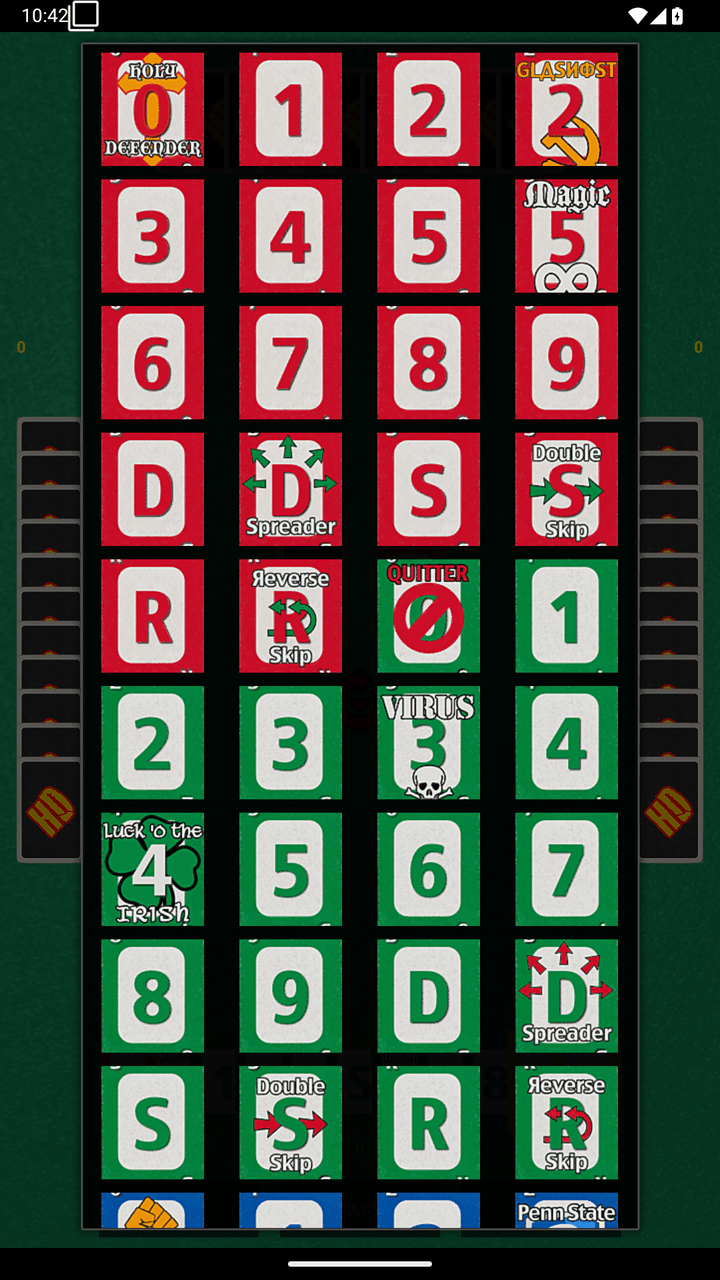
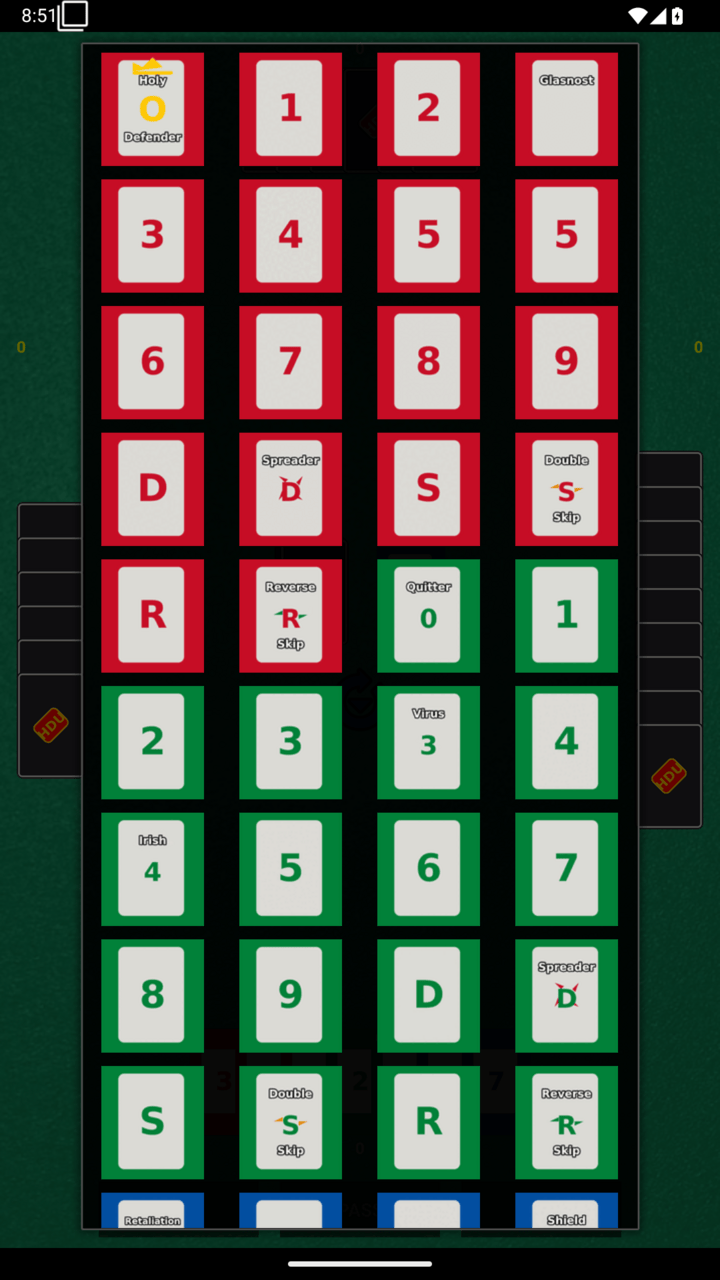
Re-shoot the four README screenshots from build #128
Unlike the last regeneration, this one was not for currency: e464a7c through
d405f31 redrew every card face and card back, and the old set was showing the
defects that fixed. Measured against the previous images at 720x1280:

  01-main          RMSE  2.3%   the clock, and nothing else
  02-table        RMSE 17.5%   new art
  03-card-catalog RMSE 17.0%   new art
  04-card-help     RMSE  7.4%   the dialog covers most of it

What the old shots recorded, and the new ones do not:

 - the back of every card clipped the Hot Death logo down to an orange sliver
   along the top edge. A back now carries the whole logo
 - a face-up card drew its label across the big rank -- "GLASNOST" through the
   2, "Reverse" through the R -- with the digit clipped by the card edge. A
   face is now a rank with a small index in each corner, labelled or not

01-main is within noise of the old one, which is the point: the menu logo comes
from a different drawable and the buttons did not move. Continue is still absent
because the emulator is wiped. The hand and the table differ because the deal is
random.

Scaled 1080x1920 -> 720x1280 and quantised to 256 colours as before, with
ImageMagick and pngquant rather than sharp: same two operations, and pngquant is
what the previous set already looked like -- 254 to 256 colours per file, 8-bit
palette. 02-table is 73KB larger than the old one at the same dimensions, which
is the card art: more colours in the faces, fewer in the felt.
[…]

diff --git a/README.md b/README.md
@@ -81,13 +81,20 @@ even though the stage asks for a 1080×2160 display: the device clamps the overr
 to 1920, which is why the committed images are 9:16 and why the stage's comment
 should not be taken as describing what comes out.
 
-The current set is build #115 of version 1.4.11. Nothing between 1.4.7 and 1.4.11
-changed what any of these four screens looks like — the releases in that range
-changed messages, card label spacing and a crash path, none of which appears in a
-still — so they were regenerated for currency rather than because any of them was
-out of date. The main menu in particular is identical apart from the clock, and
-Continue is *absent* from it: the emulator is wiped, so there is no saved game and
-the button is hidden.
+The current set is build #128 of version 1.4.16, and this time it was not just for
+currency. The card art was genuinely out of date: the SVG card faces and back have
+been regenerated and rasterised over `res/drawable-*` (e464a7c through d405f31,
+still unreleased), and the previous set is a good record of the defects that
+fixed. On the old shot the back of every card clips the *Hot Death* logo down to
+an orange sliver along the top, and a face-up card draws its label across the big
+rank — "GLASNOST" through the 2, "Reverse" through the R — with the digits
+clipped by the card edge. Both are gone: a back carries the whole logo, and a
+face-up card is a rank with a small index in each corner, labelled or not.
+
+The main menu is otherwise identical apart from the clock, and Continue is
+*absent* from it: the emulator is wiped, so there is no saved game and the button
+is hidden. The hand and the table differ from run to run, since the deal is
+random.
 
 ---
 
